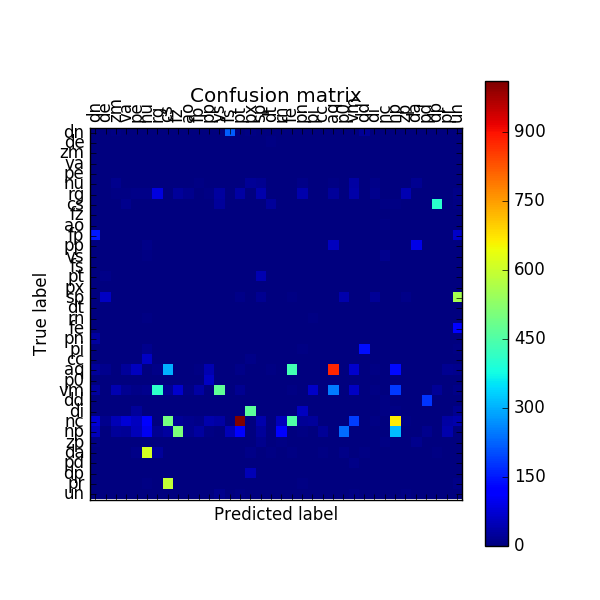
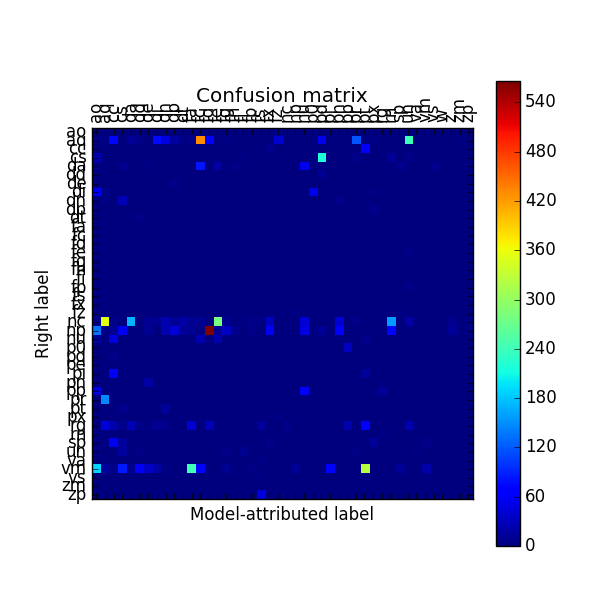
Fixing MLHMM to obtain the right results.

diff --git a/tagging/hmm.py b/tagging/hmm.py
@@ -227,23 +227,28 @@ class MLHMM:
         addone -- whether to use addone smoothing (default: True).
         """
         self._n = n
+        
         # self.__words_voc and self.__tags_voc are the set of words and tags
         # seen in training data, respectively. They will be needed mainly for
         # the addone smoothing (and the unknown method).
         self.__words_voc = set()
         self.__tags_voc = set()
+        
         # self.__counts_n, self.__counts_n_1 and self.__counts_1 will have the
         # number of appearances in the training data, related to n-grams,
         # (n-1)-grams and unigrams of tags, respectively.
         self.__counts_n = defaultdict(int)
         self.__counts_n_1 = defaultdict(int)
         self.__counts_1 = defaultdict(int)
+        
         # self.__counts_words will have the number of times certain tag has
         # been paired with a certain word
         self.__counts_words = dict()
+        
         # self.__e is the maximum likelihood estimator of seeing a word given
         # its tag.
         self.__e = dict()
+        
         # self.__q is the maximum likelihood estimator of finding a tag given
         # a (self._n - 1)-gram of previous tags.
         self.__q = defaultdict(float)
@@ -254,13 +259,16 @@ class MLHMM:
                 # if (self._n > 2):
                 #   # Update the number of occurrences of the unigram tag.
                 self.__counts_1[(tag,)] += 1
+                
                 # Update counts for this (tag, word) occurrence.
                 if (tag not in self.__counts_words.keys()):
                     self.__counts_words[tag] = defaultdict(int)
                 self.__counts_words[tag][word] += 1
+
                 # Add these word and tag to their respective sets.
                 self.__words_voc.add(word)
                 self.__tags_voc.add(tag)
+
             # Next, update counts for n-grams and (n-1)-grams.
             complete_sent = ('<s>',) * (self._n - 1)
             for (word, tag) in sent:
@@ -280,7 +288,8 @@ class MLHMM:
                                              + len(self.__tags_voc))
             else:
                 self.__q[prev_tags] = float(self.__counts_n[prev_tags])
-                if (prev_tags[:-1] in self.__counts_n_1.keys()):
+                if (self.__q[prev_tags] != 0):
+                    assert (prev_tags[:-1] in self.__counts_n_1.keys())
                     self.__q[prev_tags] /= self.__counts_n_1[prev_tags[:-1]]
 
         for tag in self.__tags_voc:
@@ -328,7 +337,7 @@ class MLHMM:
         if (prev_tags is None):
             prev_tags = ()
 
-        key = (tuple(reversed(prev_tags)) + (tag,))[-self._n:]
+        key = (tuple(prev_tags) + (tag,))[-self._n:]
         assert(len(key) == self._n)
 
         if (self.__q[key] != 0.0):
@@ -367,7 +376,7 @@ class MLHMM:
 
         for t in y:
             ret *= self.trans_prob(t, previous)
-            if (self._n != 1):
+            if (self._n > 1):
                 previous = previous[1:] + (t,)
 
         return (ret)
@@ -395,18 +404,19 @@ class MLHMM:
 
         y -- tagging.
         """
-        ret = 0.0
-        previous = ('<s>',) * (self._n - 1)
-        y = tuple(y) + ('</s>', )
+        # ret = 0.0
+        # previous = ('<s>',) * (self._n - 1)
+        # y = tuple(y) + ('</s>', )
 
-        for t in y:
-            # Since we are computing the log probability, then we have to add
-            # and not multiply the results.
-            ret += math.log2(self.trans_prob(t, previous))
-            if (self._n != 1):
-                previous = previous[1:] + (t,)
+        # for t in y:
+        #     # Since we are computing the log probability, then we have to add
+        #     # and not multiply the results.
+        #     ret += math.log2(self.trans_prob(t, previous))
+        #     if (self._n != 1):
+        #         previous = previous[1:] + (t,)
 
-        return (ret)
+        # return (ret)
+        return (math.log2(self.tag_prob()))
 
     def log_prob(self, x, y):
         """
@@ -415,18 +425,19 @@ class MLHMM:
         x -- sentence.
         y -- tagging.
         """
-        assert(len(x) == len(y))
+        # assert(len(x) == len(y))
 
-        # The probability of a tagging, given a sentence and according to
-        # Collins notes, depends on the probability of a tag, given its
-        # context, and the probability of the word found, given that tag.
-        ret = self.tag_log_prob(y)
-        for i in range(len(x)):
-            # Since we are computing the log probability, then we have to add
-            # and not multiply the results.
-            ret += math.log2(self.out_prob(x[i], y[i]))
+        # # The probability of a tagging, given a sentence and according to
+        # # Collins notes, depends on the probability of a tag, given its
+        # # context, and the probability of the word found, given that tag.
+        # ret = self.tag_log_prob(y)
+        # for i in range(len(x)):
+        #     # Since we are computing the log probability, then we have to add
+        #     # and not multiply the results.
+        #     ret += math.log2(self.out_prob(x[i], y[i]))
 
-        return (ret)
+        # return (ret)
+        return (math.log2(self.prob(x, y)))
 
     def tag(self, sent):
         """Returns the most probable tagging for a sentence.

diff --git a/tagging/scripts/eval.py b/tagging/scripts/eval.py
@@ -107,7 +107,7 @@ if __name__ == '__main__':
     gold_tags_list = sorted(list(gold_tags))
     cant_gold_tags = len(gold_tags)
 
-    # First, print confusion matrix in CLI.
+    # First, build confusion matrix.
     for gold_tag in gold_tags_list:
         # Start by creating a row associated to gold_tag, all filled with 0s.
         positions = [0] * cant_model_tags
